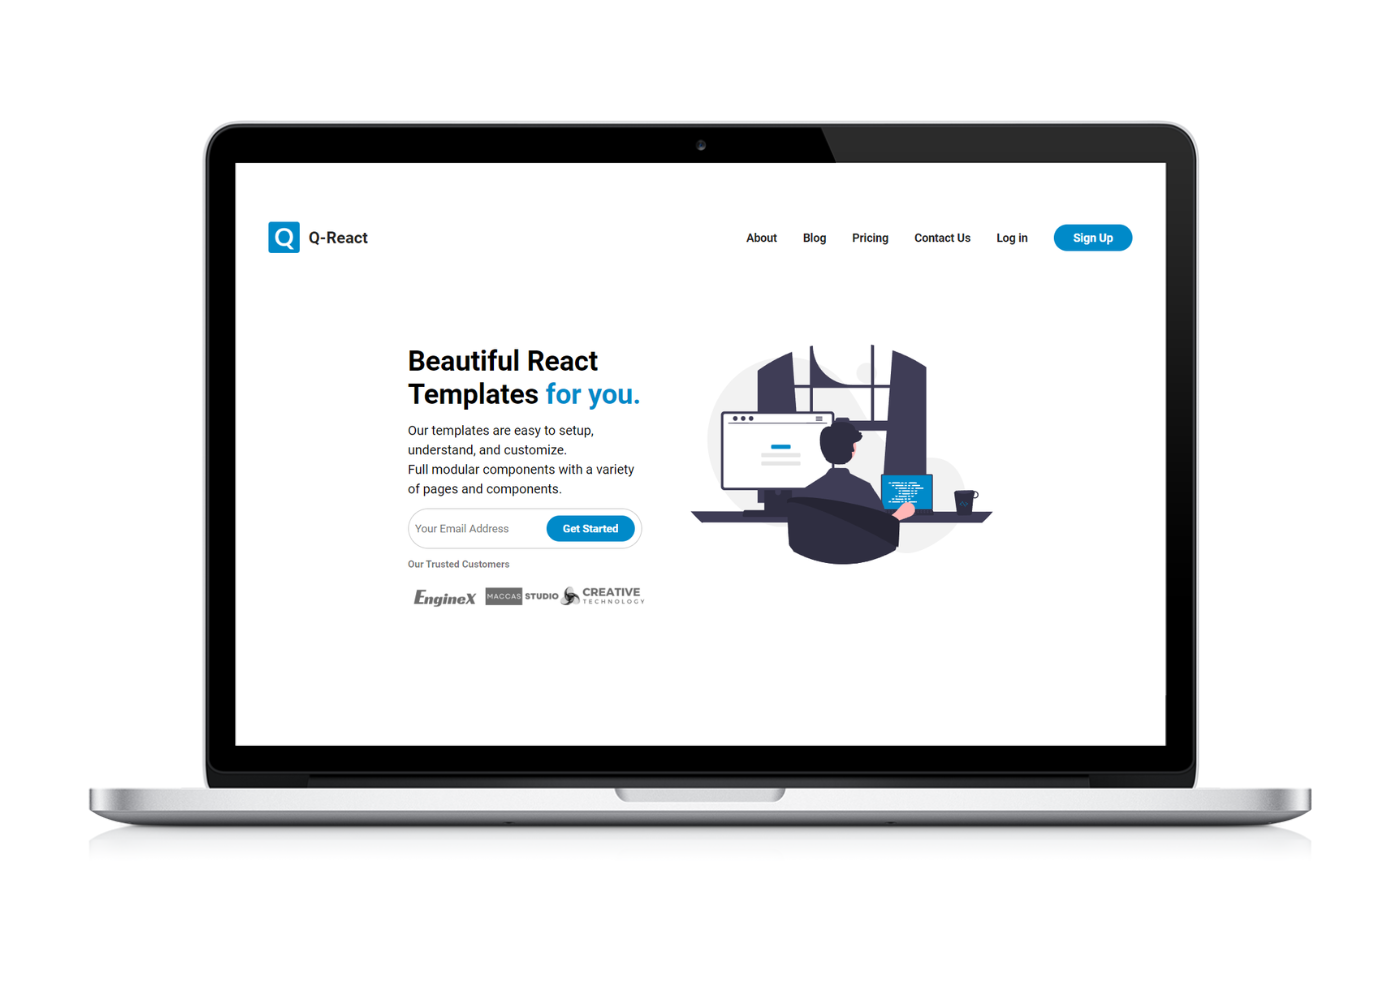
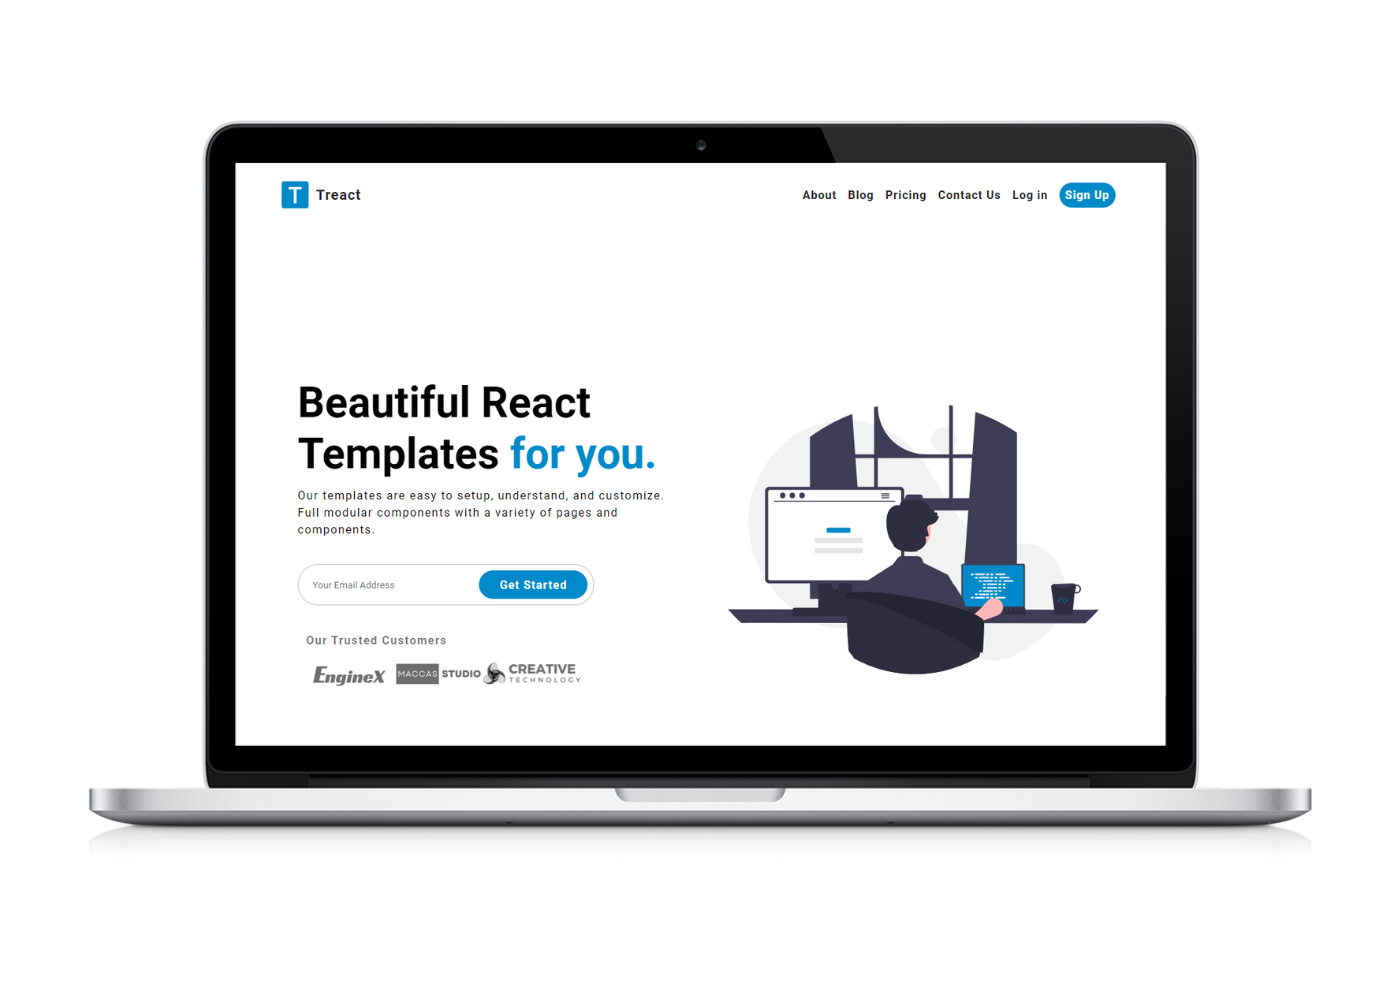
last commit

diff --git a/index.html b/index.html
@@ -5,7 +5,7 @@
     <meta name="viewport" content="width=device-width, initial-scale=1.0" />
     <title>
       Free Modern React Templates & Components for building landing pages and
-      UIs - Q-React
+      UIs - TReact
     </title>
     <link rel="stylesheet" href="./styles.css" />
     <script
@@ -19,7 +19,7 @@
       <nav>
         <div class="row nav__container">
           <a href="#" class="logo__link">
-            <img class="logo" src="./assets/logo.png" alt="" />Q-React
+            <img class="logo" src="./assets/logo.png" alt="" />Treact
           </a>
           <ul class="nav__links">
             <li><a href="#" class="nav__link">About</a></li>
@@ -393,7 +393,7 @@
            
             <div class="dev__bg--container">
               <div class="dev__description--wrapper">
-                <h2 class="dev__description">Developers all over the world are happily using <span class="text--purple">Q-React.</span></h2>
+                <h2 class="dev__description">Developers all over the world are happily using <span class="text--purple">Treact.</span></h2>
                 <div class="dev__btn--wrapper">
                 <a href="" class="dev__btn dev1">Get Started</a>
                 <a href="" class="dev__btn dev2">Contact Us</a></div>
@@ -446,10 +446,10 @@
         </div>
         <div class="footer__info">
           <a href="#" class="footer__img--wrapper">
-            <img class="footer__img" src="./assets/footer log.png" alt="" /> <span class="qreact">Q-React</span>
+            <img class="footer__img" src="./assets/footer log.png" alt="" /> <span class="qreact">Treact</span>
           </a>
            <div class="footer__copyright">
-            Copyrights © 2023 Q-React Developers Inc. All Rights Reserved.
+            Copyrights © 2023 Treact Developers Inc. All Rights Reserved.
            </div>
            <div class="footer__links">
             <a href="" class="footer__link">
